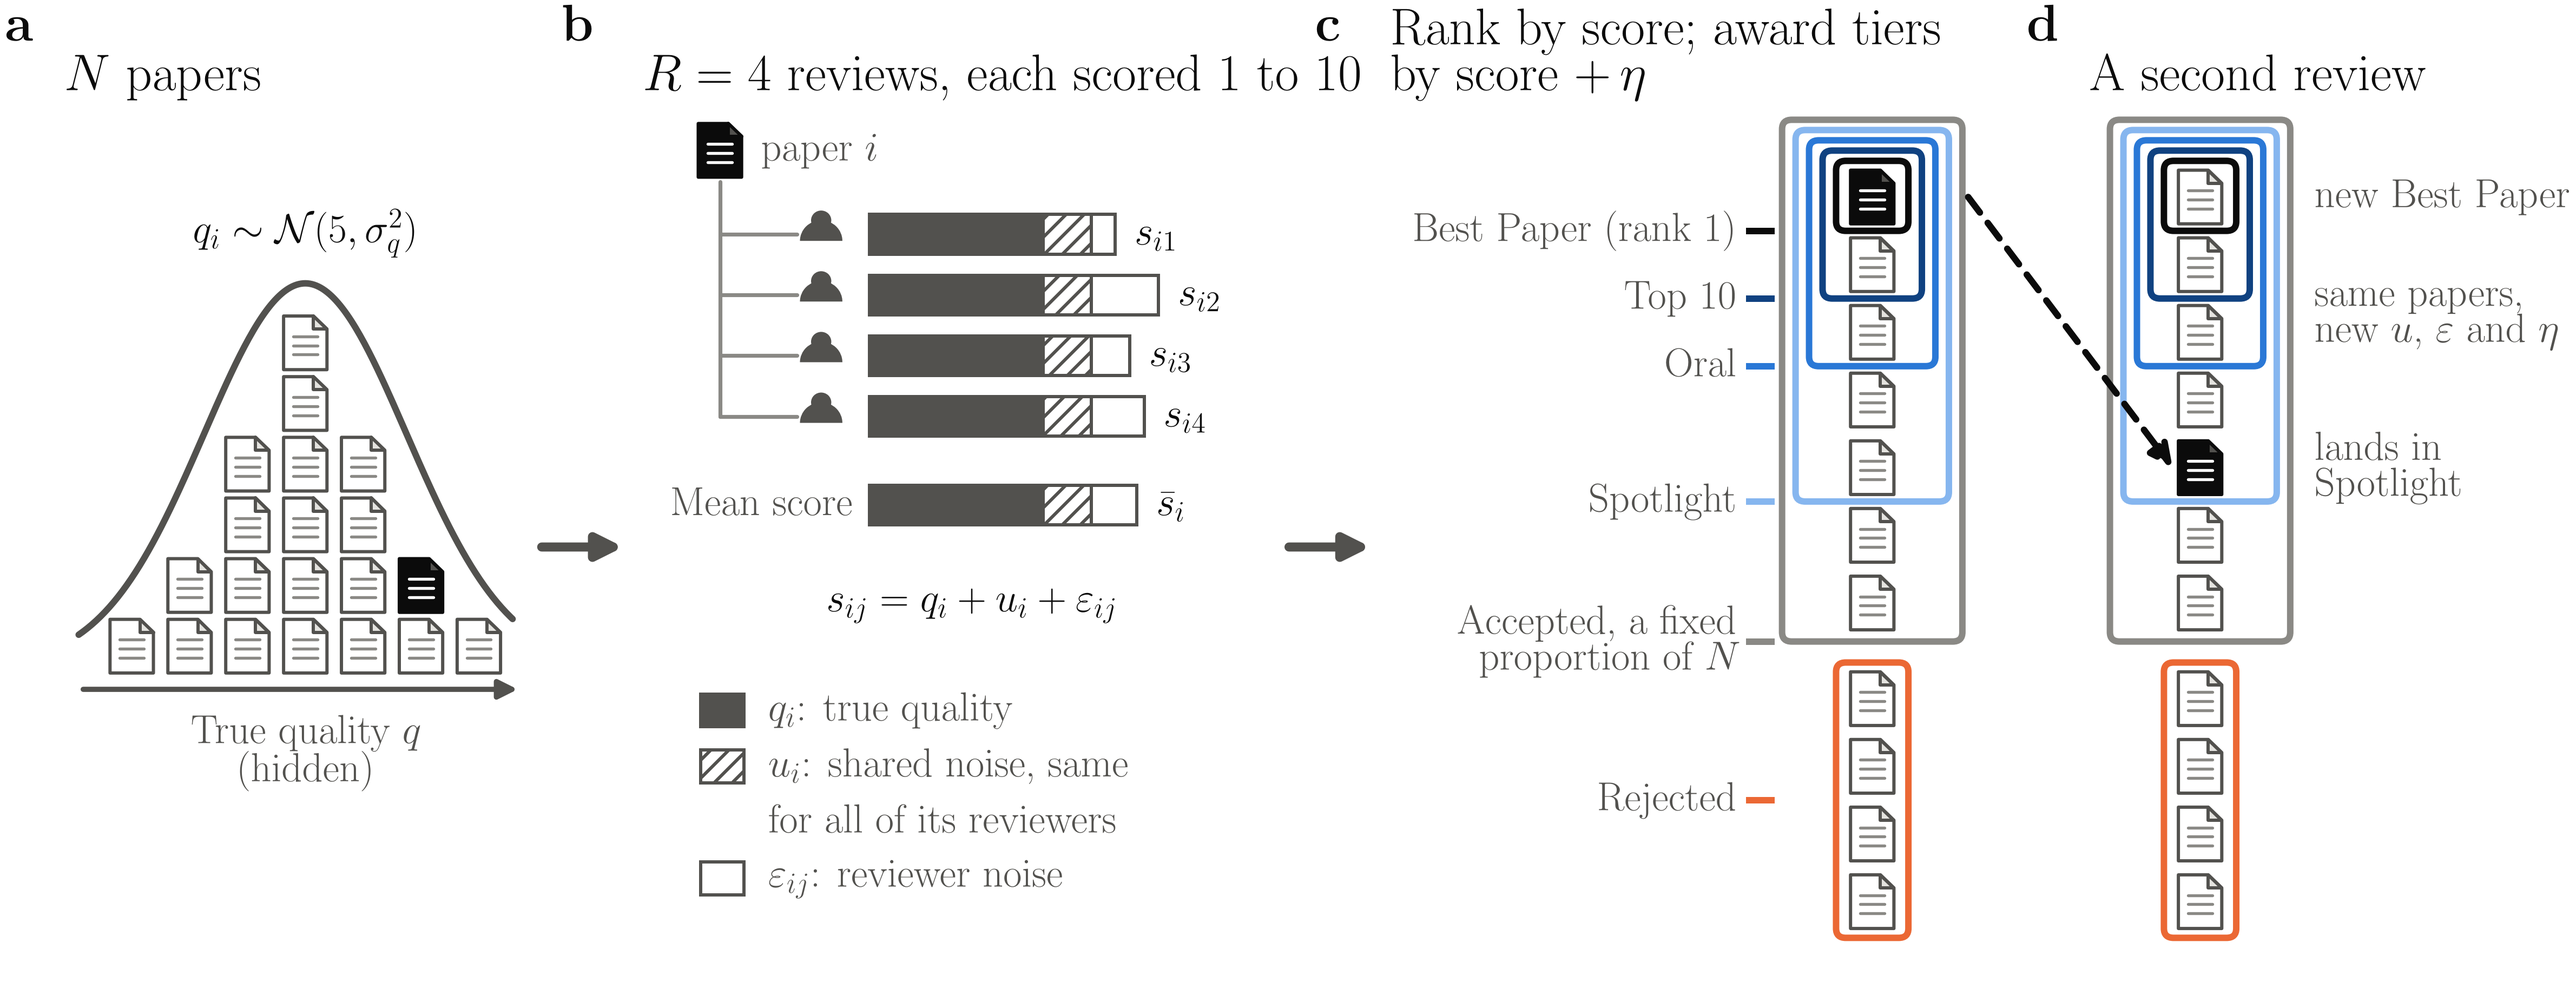
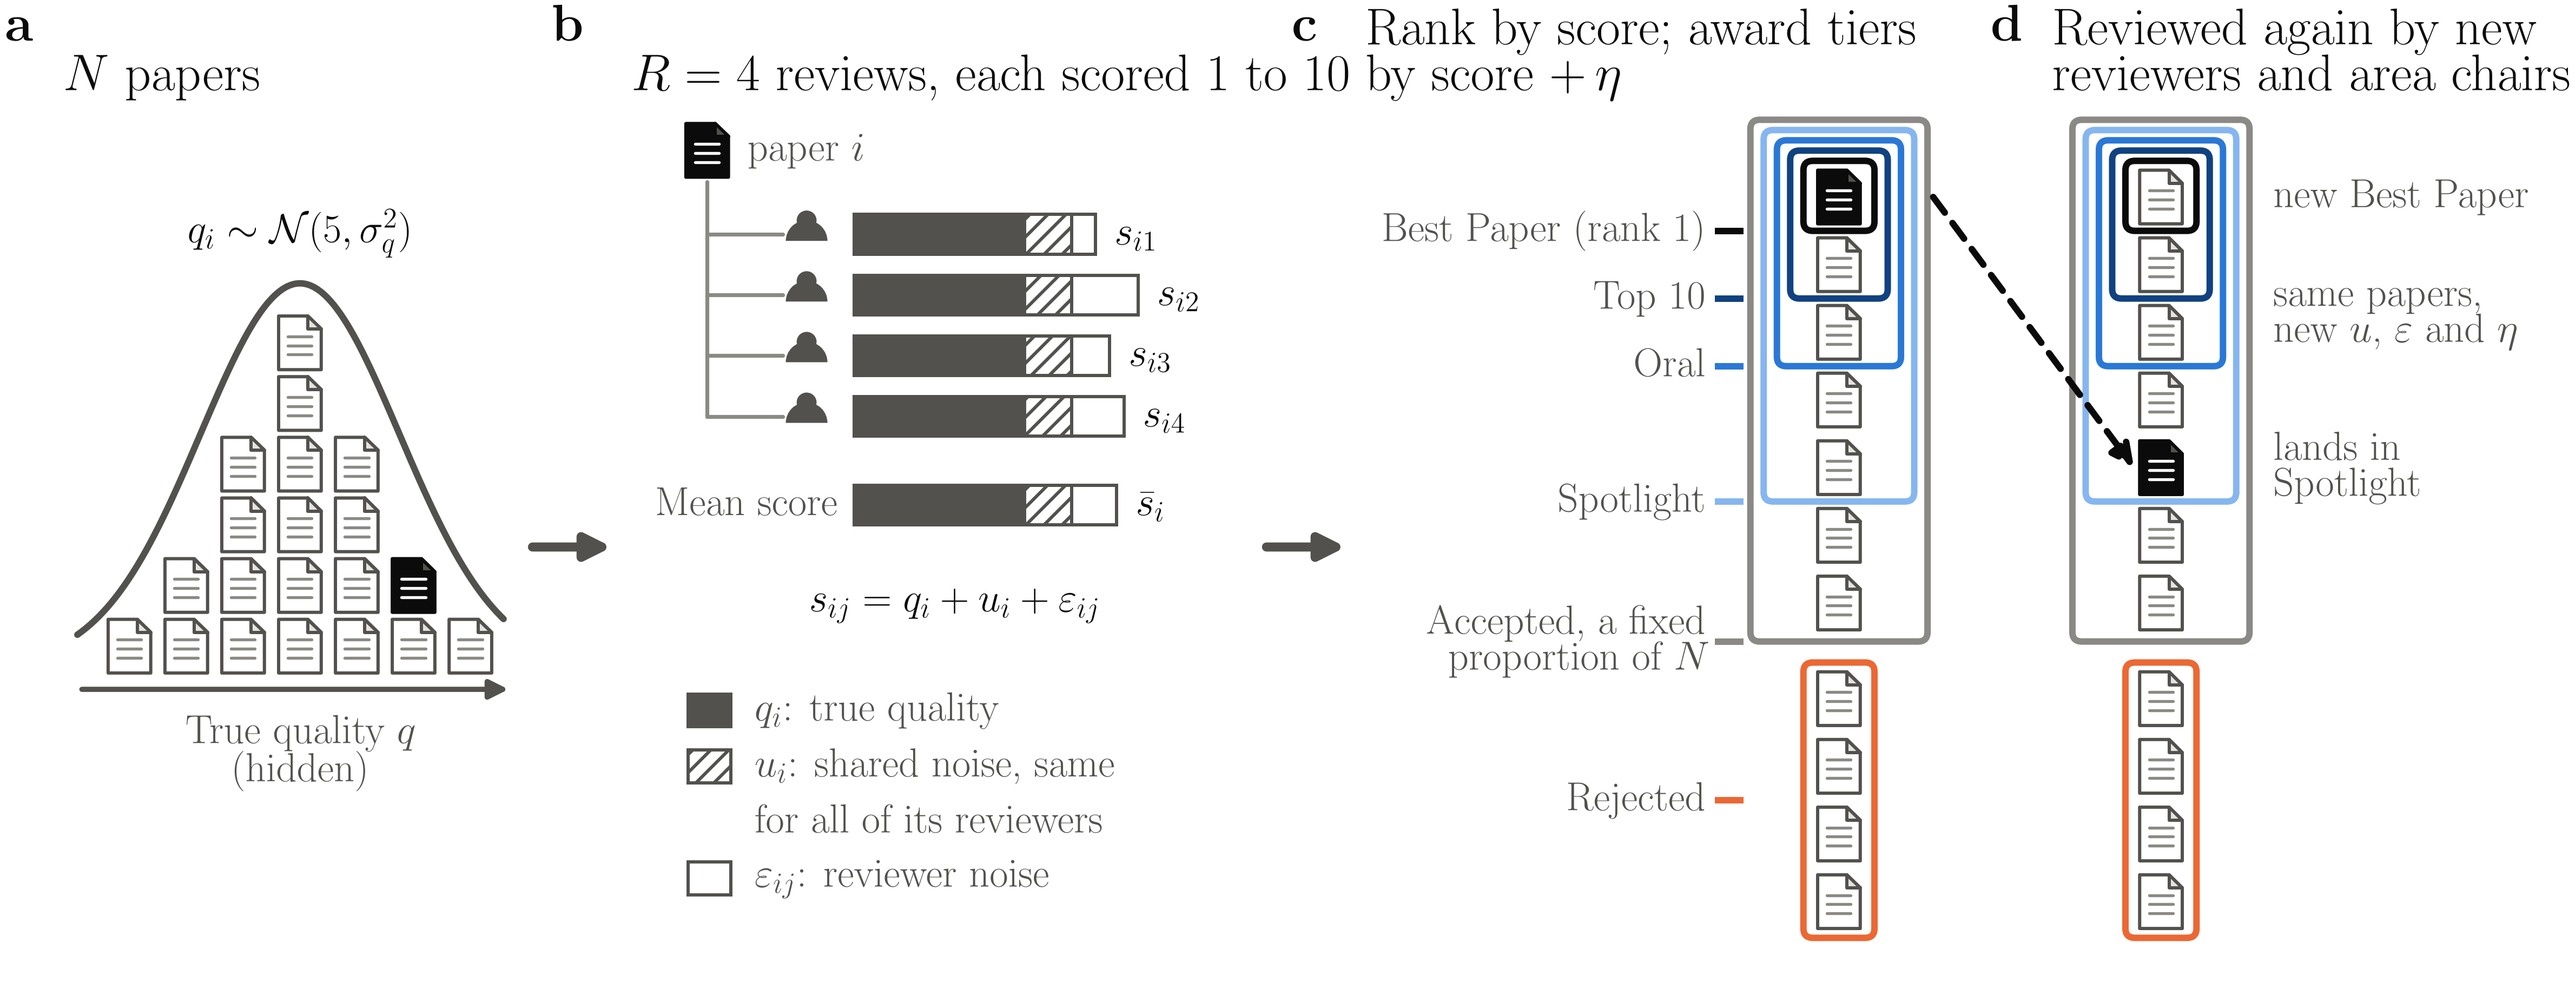
Schematic: panel (d) names where the second review comes from

diff --git a/scripts/make_schematic.py b/scripts/make_schematic.py
@@ -29,7 +29,7 @@ FIG = os.path.join(ROOT, "figures")
 S = P.S
 
 # Layout, printed inches: four panels in a row, arrows in the gaps, a title row above the axes.
-PANELS = (("$N$ papers", 0.95), ("$R=4$ reviews, each scored 1 to 10", 1.3), ("Rank by score; award tiers\nby score $+\\,\\eta$", 1.2), ("A second review", 1.0))
+PANELS = (("$N$ papers", 0.95), ("$R=4$ reviews, each scored 1 to 10", 1.3), ("Rank by score; award tiers\nby score $+\\,\\eta$", 1.2), ("Reviewed again by new\nreviewers and area chairs", 1.0))
 H = 1.9  # axes height
 TOP, BOT = 0.22, 0.04  # title row above the axes, margin below
 GAP, LEFT, RIGHT = 0.25, 0.14, 0.02  # the left margin holds the panel letter of (a)
